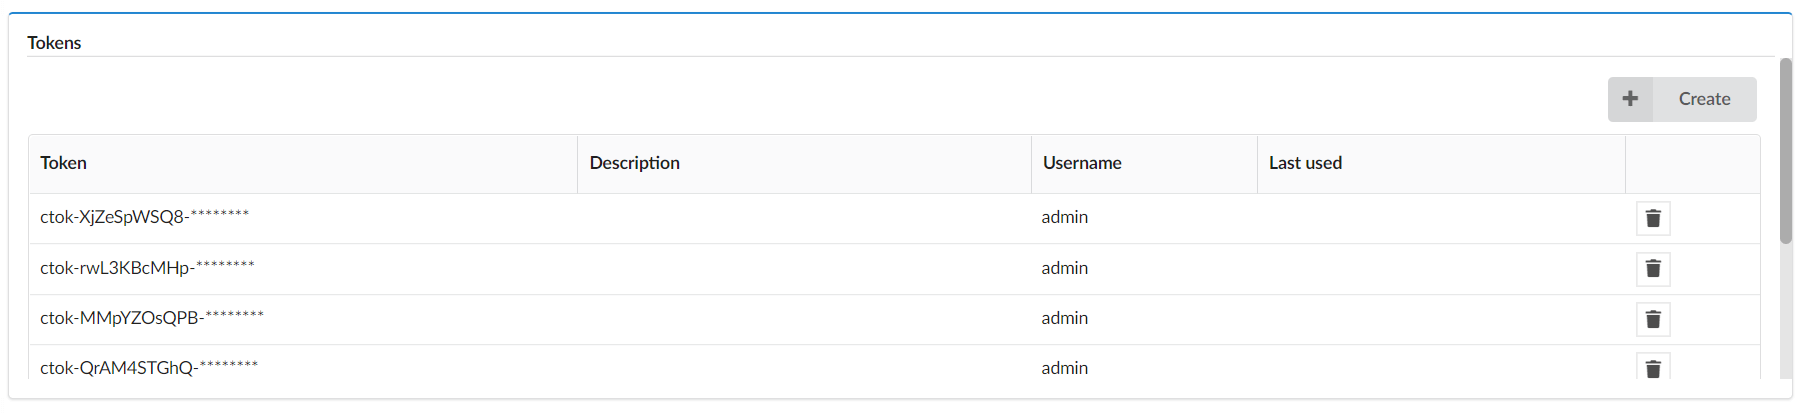
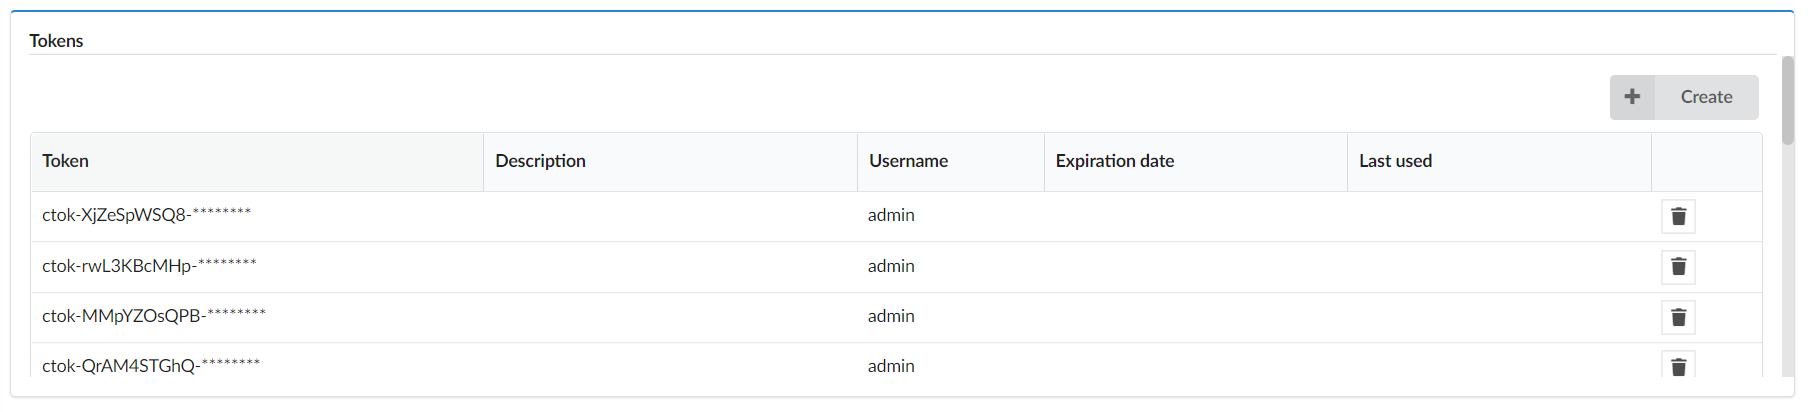
RD-4423: Added ability to filter out expired tokens

diff --git a/widgets/tokens/src/TokensTable.tsx b/widgets/tokens/src/TokensTable.tsx
@@ -14,11 +14,9 @@ const t = getT(`${translationPath}.table`);
 interface TokensTableProps {
     data: TokensWidget.Data;
     toolbox: Stage.Types.Toolbox;
-    widgetConfiguration: TokensWidget.Configuration;
 }
 
-const TokensTable = ({ data, toolbox, widgetConfiguration }: TokensTableProps) => {
-    const { showExpiredTokens } = widgetConfiguration;
+const TokensTable = ({ data, toolbox }: TokensTableProps) => {
     const shouldDisplayUsers = ReactRedux.useSelector(
         (state: Stage.Types.ReduxState) => state.manager.auth.role === Stage.Common.Consts.sysAdminRole
     );
@@ -39,9 +37,7 @@ const TokensTable = ({ data, toolbox, widgetConfiguration }: TokensTableProps) =
                 <DataTable.Column label={t('columns.token')} name={dataSortingKeys.value} />
                 <DataTable.Column label={t('columns.description')} name={dataSortingKeys.description} />
                 {shouldDisplayUsers && <DataTable.Column label={t('columns.username')} />}
-                {showExpiredTokens && (
-                    <DataTable.Column label={t('columns.expirationDate')} name={dataSortingKeys.expirationDate} />
-                )}
+                <DataTable.Column label={t('columns.expirationDate')} name={dataSortingKeys.expirationDate} />
                 <DataTable.Column label={t('columns.lastUsed')} name={dataSortingKeys.lastUsed} />
                 <DataTable.Column label="" />
                 {data?.items?.map(dataItem => {
@@ -58,11 +54,9 @@ const TokensTable = ({ data, toolbox, widgetConfiguration }: TokensTableProps) =
                                     <TextEllipsis content={dataItem.username} />
                                 </DataTable.Data>
                             )}
-                            {showExpiredTokens && (
-                                <DataTable.Data>
-                                    <TextEllipsis content={Time.formatTimestamp(dataItem.expiration_date)} />
-                                </DataTable.Data>
-                            )}
+                            <DataTable.Data>
+                                <TextEllipsis content={Time.formatTimestamp(dataItem.expiration_date)} />
+                            </DataTable.Data>
                             <DataTable.Data>
                                 <TextEllipsis content={Time.formatTimestamp(dataItem.last_used)} />
                             </DataTable.Data>

diff --git a/widgets/tokens/src/widget.tsx b/widgets/tokens/src/widget.tsx
@@ -5,6 +5,23 @@ import { translationPath } from './widget.consts';
 
 const t = Stage.Utils.getT(translationPath);
 
+const isTokenExpired = (token: TokensWidget.DataItem): boolean => {
+    return moment(token.expiration_date).isBefore();
+};
+
+const omitExpiredTokens = (tokens?: TokensWidget.DataItem[]) => {
+    return tokens?.filter(token => !isTokenExpired(token));
+};
+
+const mapFetchedData = (data: TokensWidget.Data, showExpiredTokens: boolean): TokensWidget.Data => {
+    return showExpiredTokens
+        ? data
+        : ({
+              ...data,
+              items: omitExpiredTokens(data?.items)
+          } as TokensWidget.Data);
+};
+
 Stage.defineWidget<never, TokensWidget.Data, TokensWidget.Configuration>({
     id: 'tokens',
     name: t('name'),
@@ -13,7 +30,6 @@ Stage.defineWidget<never, TokensWidget.Data, TokensWidget.Configuration>({
     isReact: true,
     hasReadme: true,
     fetchUrl: '[manager]/tokens[params]',
-    permission: Stage.GenericConfig.WIDGET_PERMISSION('tokens'),
 
     initialConfiguration: [
         Stage.GenericConfig.POLLING_TIME_CONFIG(10),
@@ -26,14 +42,16 @@ Stage.defineWidget<never, TokensWidget.Data, TokensWidget.Configuration>({
         }
     ],
 
-    render(widget, data, _error, toolbox) {
+    render(widget, fetchedData, _error, toolbox) {
         const { Loading } = Stage.Basic;
+        const { showExpiredTokens } = widget.configuration;
+        const data = mapFetchedData(fetchedData, showExpiredTokens);
 
         if (_.isEmpty(data)) {
             return <Loading />;
         }
 
-        return <TokensTable data={data} toolbox={toolbox} widgetConfiguration={widget.configuration} />;
+        return <TokensTable data={data} toolbox={toolbox} />;
     }
 });
 
